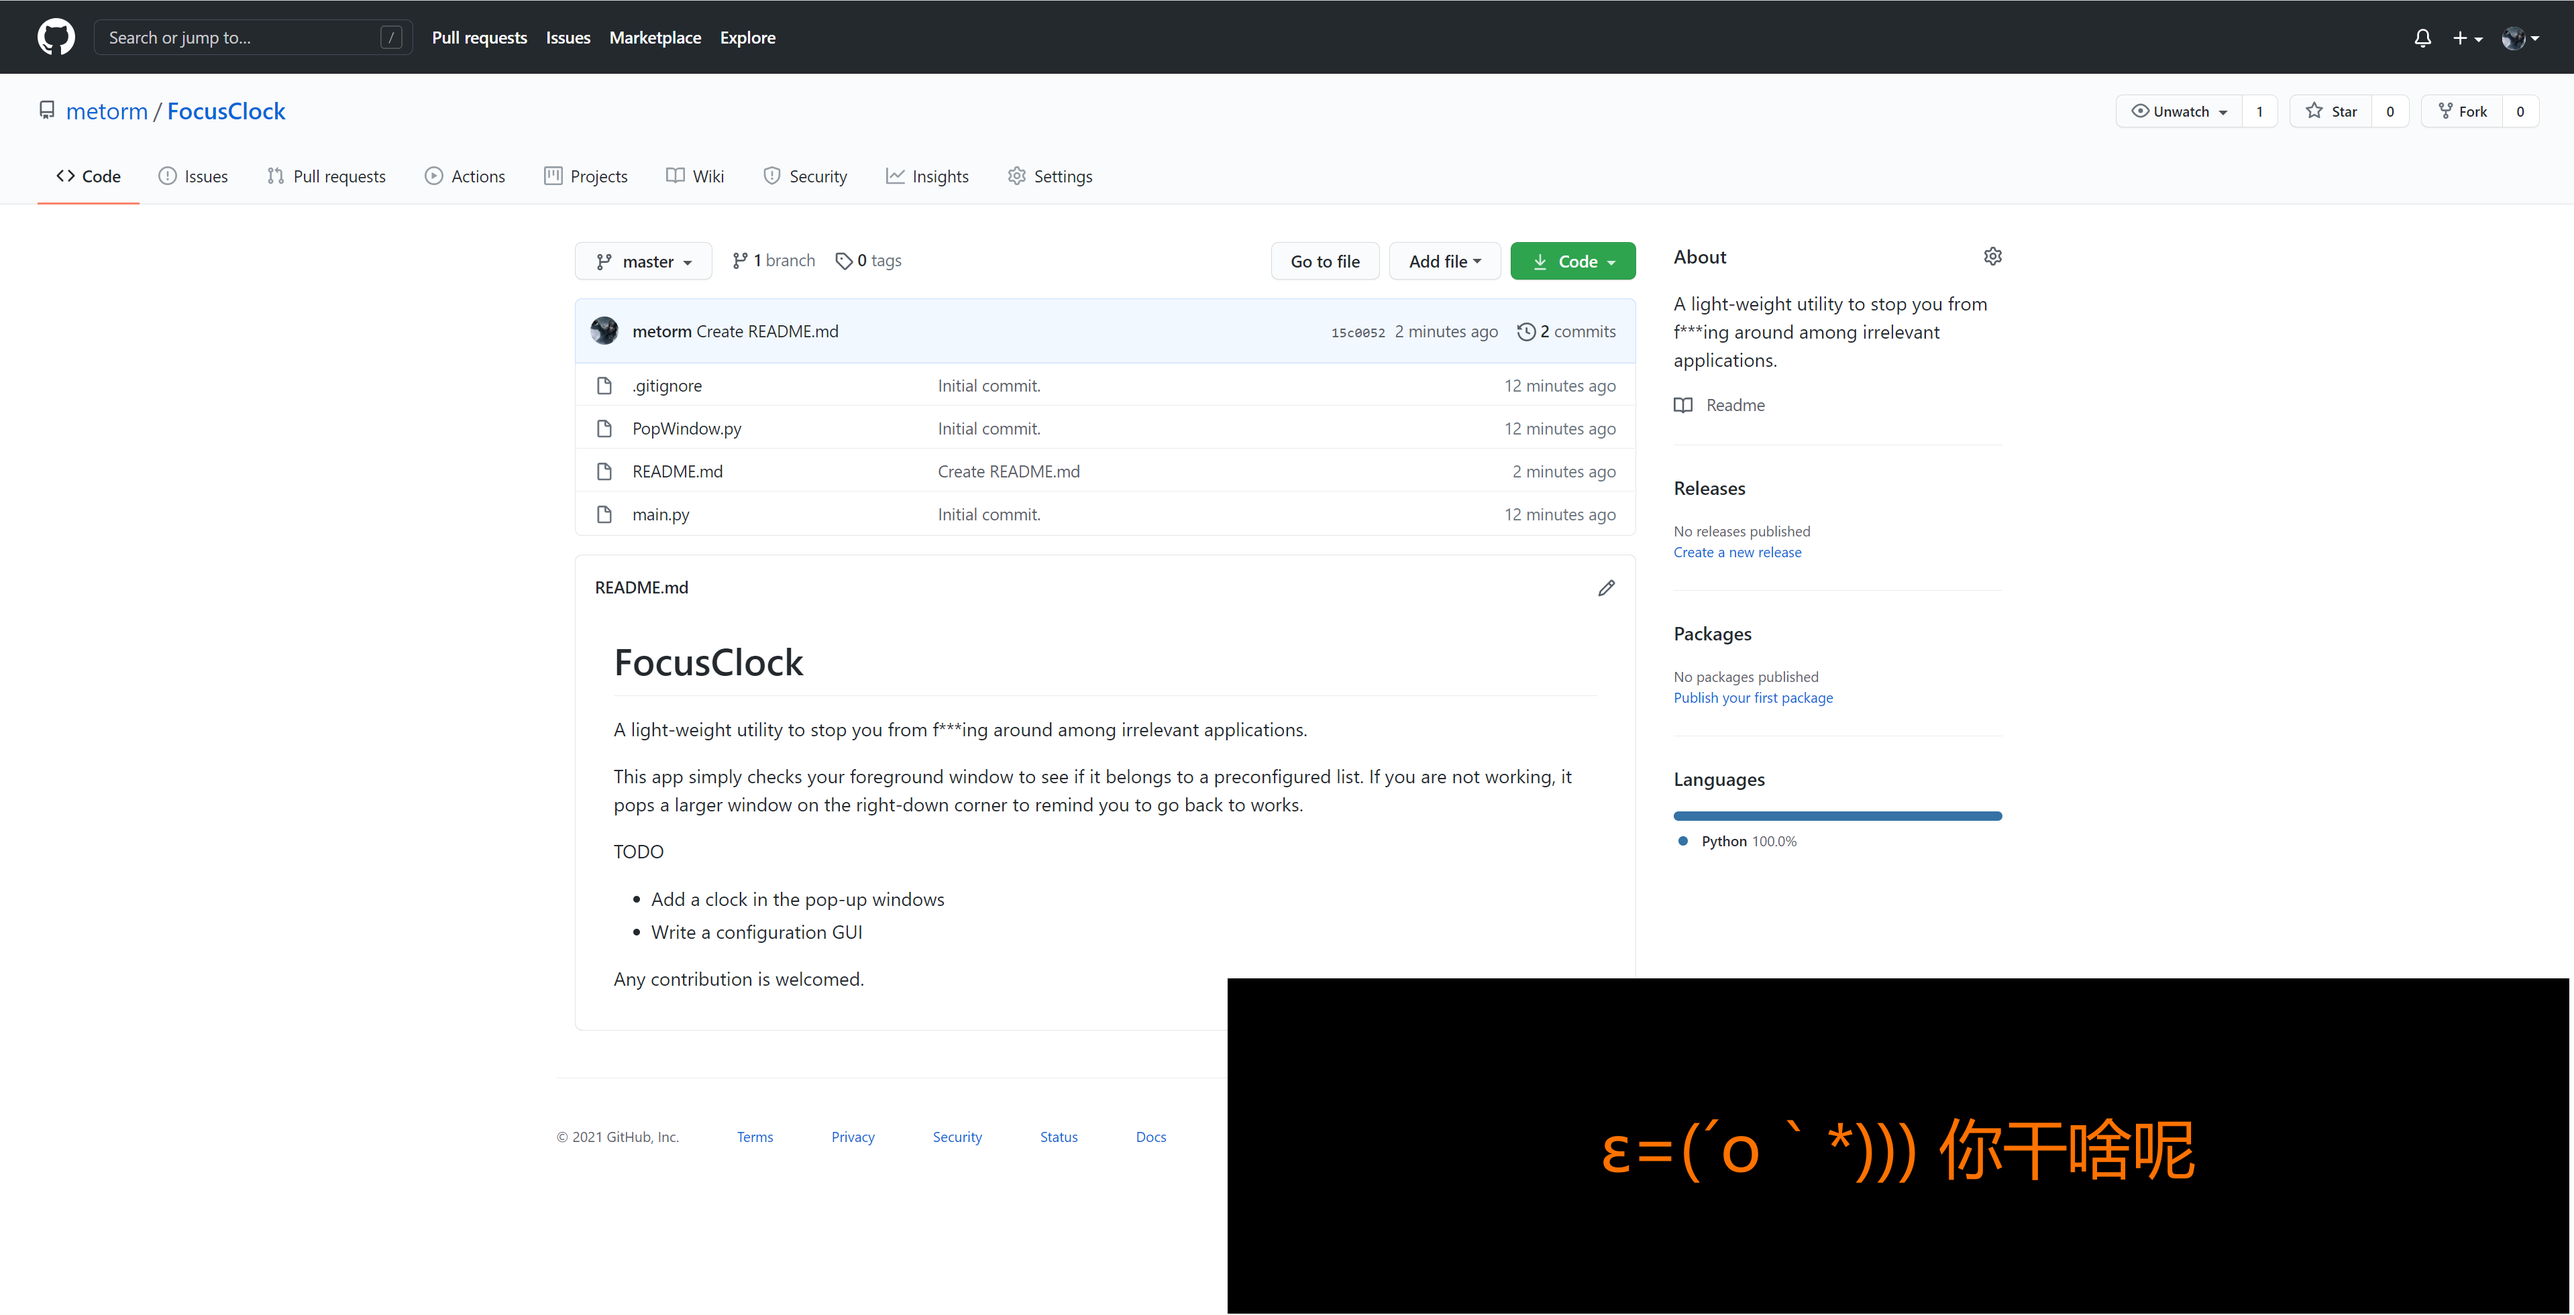
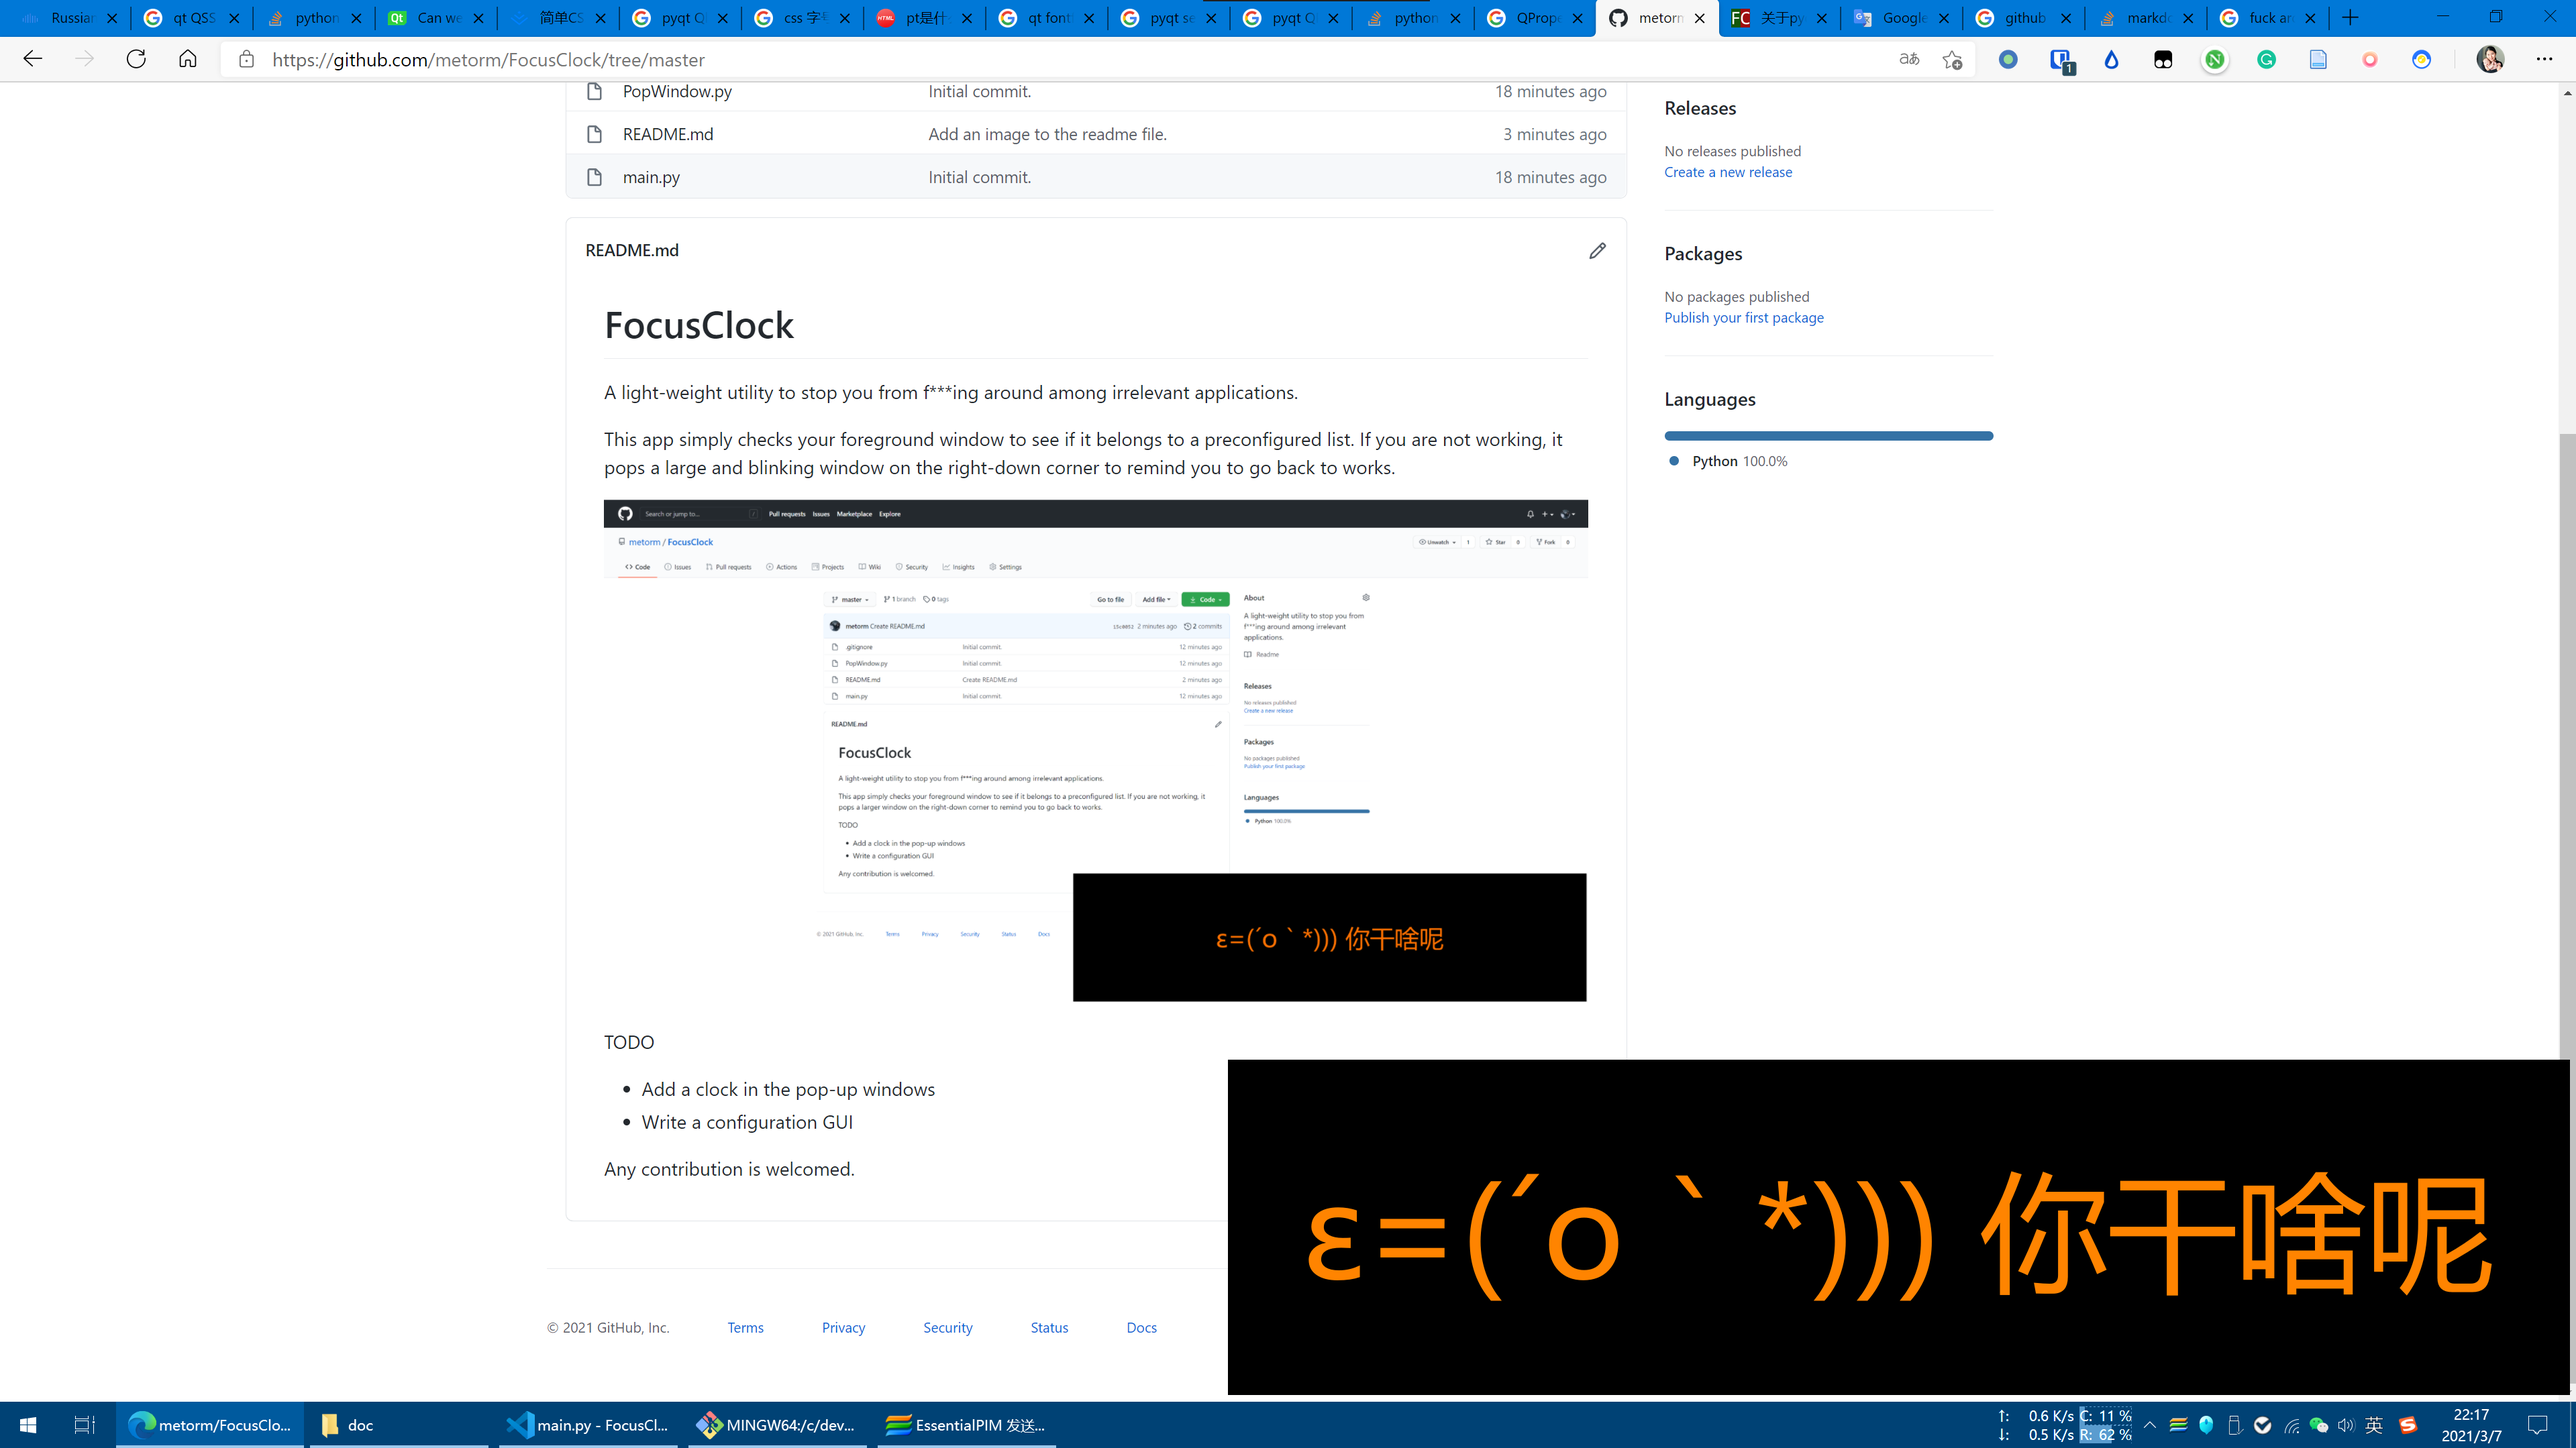
Use px as the font size unit to fit HiDPI devices.

diff --git a/PopWindow.py b/PopWindow.py
@@ -16,7 +16,7 @@ class WindowNotify(QWidget):
         self.label.setAlignment(Qt.AlignCenter)
 
         self.label.setStyleSheet(
-            "font-size: 36pt; font-family: Microsoft Yahei, Roman;")
+            "font-size: 96px; font-family: Microsoft Yahei, Roman;")
 
         p = self.palette()
         p.setColor(self.backgroundRole(), Qt.black)
